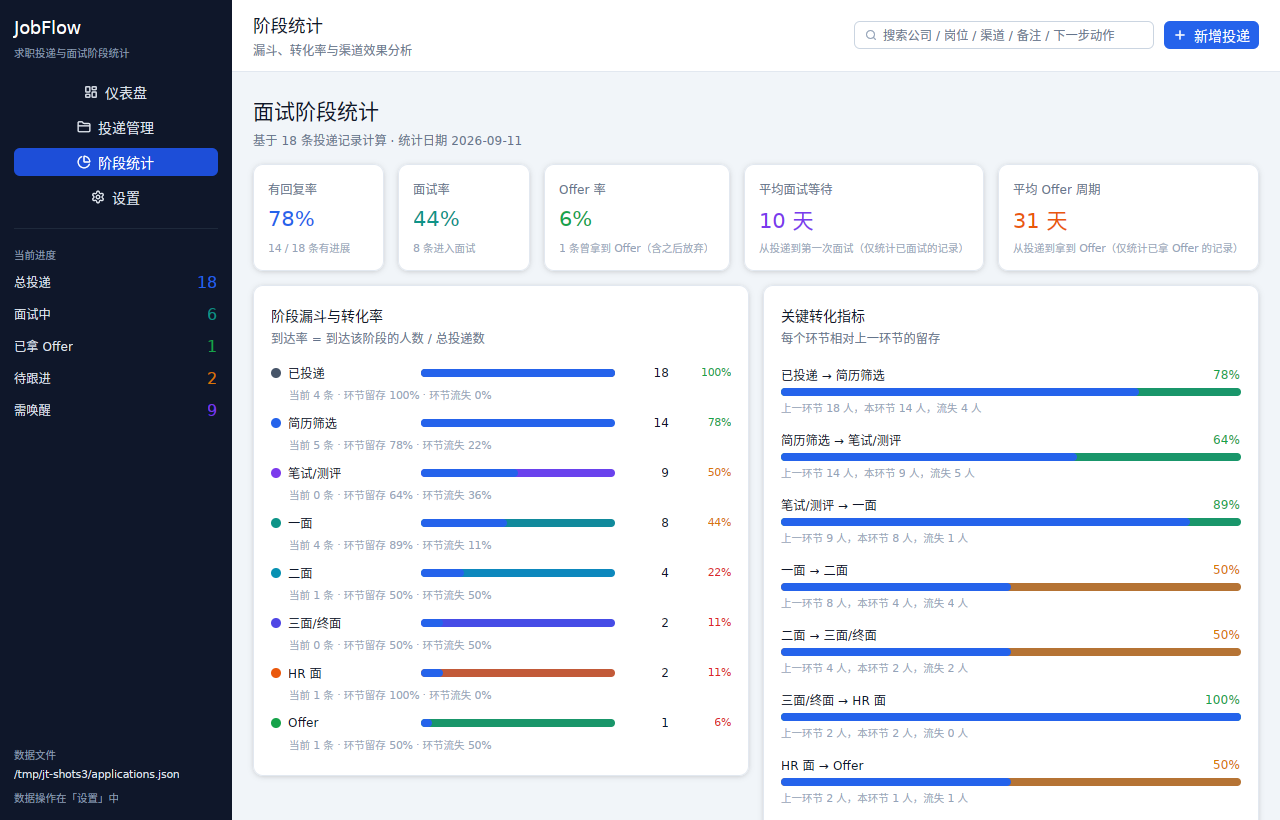
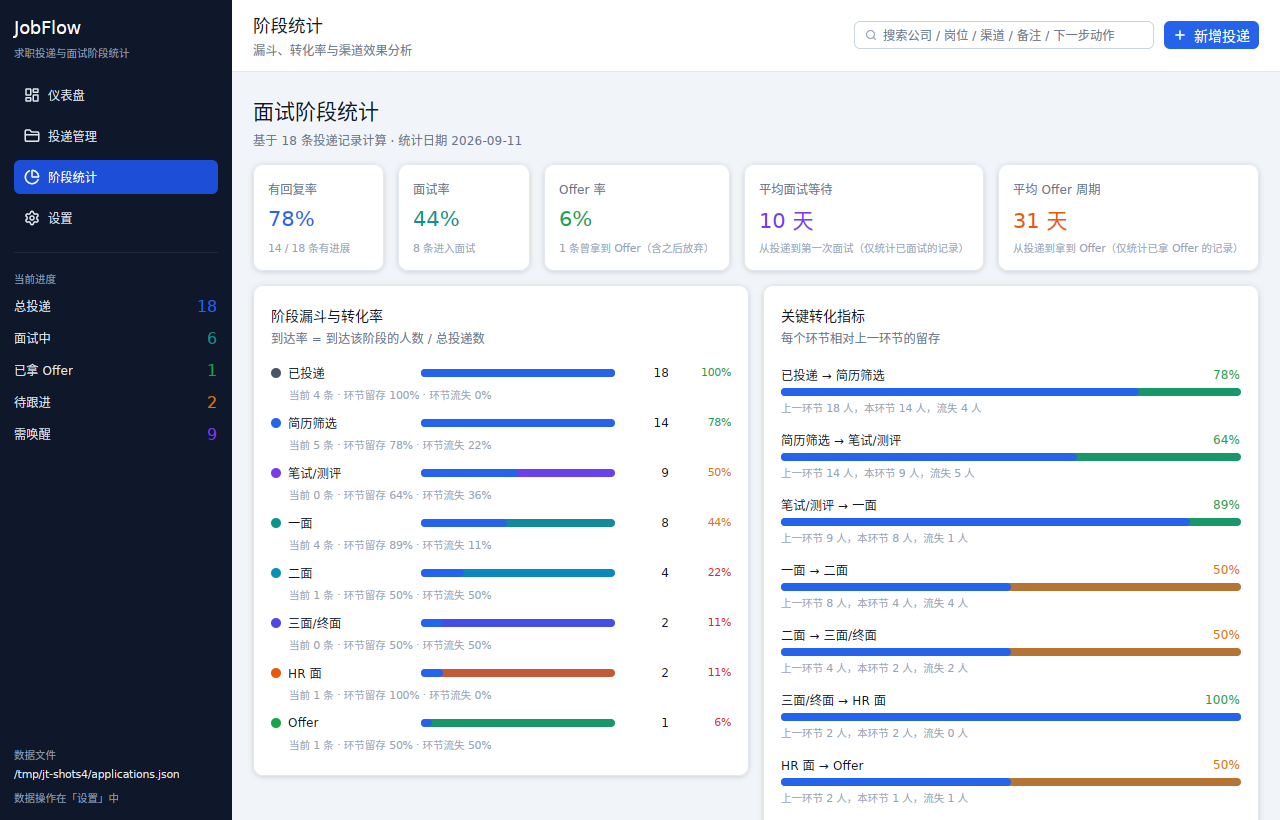
fix(ui): 侧边栏导航项恢复左对齐与实心激活色
gpui-component 0.6 的 Button 内部把内容包在 h_flex().size_full().justify_center()
里，外层的 justify_start 管不到它，于是「图标 + 文字」整体居中、四个导航项各不对齐；
激活项的背景还被叠加了透明度，显示成暗蓝色而非实心主色。

导航项改为自绘 div：图标固定 18px 列宽（四项图标列对齐）、文字左对齐、
激活项实心 #1d4ed8 + 白字，未激活项 hover 用 sidebar_hover。
同步刷新界面截图，版本号 0.3.0 → 0.3.1。

diff --git a/src/ui/components.rs b/src/ui/components.rs
@@ -4,10 +4,12 @@
 //! Progress / ListItem 等，样式与交互（hover、focus ring、禁用态、键盘可达性）
 //! 交给组件库统一处理。
 
-use gpui::{App, Div, FontWeight, Hsla, ParentElement, SharedString, Styled, div, prelude::*, px};
+use gpui::{
+    Div, FontWeight, Hsla, ParentElement, SharedString, Stateful, Styled, div, prelude::*, px,
+};
 use gpui_kit::component::{
     Icon, IconName, Selectable as _, Sizable as _,
-    button::{Button, ButtonCustomVariant, ButtonVariants as _},
+    button::{Button, ButtonVariants as _},
     list::ListItem,
     progress::Progress,
     tag::Tag,
@@ -249,37 +251,68 @@ pub fn danger_button(id: impl Into<SharedString>, label: impl Into<String>) -> B
     Button::new(id.into()).danger().label(label.into())
 }
 
-/// 侧边栏导航按钮。
+/// 侧边栏导航项。
 ///
-/// 侧边栏是深色底，组件库默认的按钮文字色是深色前景色，直接用会看不见，
-/// 因此这里用 `custom` 变体显式指定深色底上的配色。
-pub fn nav_button(
-    cx: &App,
+/// 这里刻意不用组件库的 `Button`：它内部会把内容包在
+/// `h_flex().size_full().justify_center()` 里，外层的 `justify_start` 管不到，
+/// 于是「图标 + 文字」会整体居中、四项还各不对齐。自绘一个 div 更省事：
+/// 图标固定列宽，文字左对齐，激活项用实心主色。
+pub fn nav_item(
     id: impl Into<SharedString>,
     icon: IconName,
     label: impl Into<String>,
     active: bool,
-) -> Button {
-    let variant = if active {
-        ButtonCustomVariant::new(cx)
-            .color(theme::sidebar_active())
-            .foreground(gpui::white())
-            .hover(theme::sidebar_active())
-            .active(theme::sidebar_active())
+) -> Stateful<Div> {
+    let text_color = if active {
+        gpui::white()
     } else {
-        ButtonCustomVariant::new(cx)
-            .color(theme::sidebar_bg())
-            .foreground(theme::text_on_dark())
-            .hover(theme::sidebar_hover())
-            .active(theme::sidebar_hover())
+        theme::text_on_dark()
+    };
+    let idle_bg = if active {
+        theme::sidebar_active()
+    } else {
+        theme::sidebar_bg()
     };
 
-    Button::new(id.into())
+    div()
+        .id(id.into())
+        .flex()
+        .flex_row()
+        .items_center()
+        .gap_2()
         .w_full()
-        .justify_start()
-        .icon(Icon::new(icon))
-        .label(label.into())
-        .custom(variant)
+        .px_2p5()
+        .py_2()
+        .rounded(px(6.))
+        .bg(idle_bg)
+        .text_color(text_color)
+        .cursor_pointer()
+        .hover(move |style| {
+            style.bg(if active {
+                theme::sidebar_active()
+            } else {
+                theme::sidebar_hover()
+            })
+        })
+        .child(
+            div()
+                .flex_shrink_0()
+                .w(px(18.))
+                .flex()
+                .items_center()
+                .justify_center()
+                .child(Icon::new(icon).size(px(16.)).text_color(text_color)),
+        )
+        .child(
+            div()
+                .text_sm()
+                .font_weight(if active {
+                    FontWeight::SEMIBOLD
+                } else {
+                    FontWeight::NORMAL
+                })
+                .child(label.into()),
+        )
 }
 
 /// 阶段筛选按钮。

diff --git a/src/ui/app.rs b/src/ui/app.rs
@@ -5,7 +5,7 @@ use std::{path::PathBuf, rc::Rc};
 use chrono::NaiveDate;
 use gpui::{
     AnyElement, App, Context, Div, Entity, FocusHandle, Focusable, FontWeight, IntoElement,
-    ParentElement, Render, SharedString, Styled, Window, actions, div, prelude::*, px,
+    ParentElement, Render, SharedString, Stateful, Styled, Window, actions, div, prelude::*, px,
 };
 use gpui_kit::component::{
     Icon, IconName, Sizable as _,
@@ -942,9 +942,8 @@ impl RootView {
         cx.notify();
     }
 
-    fn nav_item(&self, tab: Tab, cx: &Context<Self>) -> Button {
-        nav_button(
-            cx,
+    fn nav_item(&self, tab: Tab, cx: &Context<Self>) -> Stateful<Div> {
+        nav_item(
             format!("nav-{:?}", tab),
             tab.icon(),
             tab.title(),

diff --git a/CHANGELOG.md b/CHANGELOG.md
@@ -2,6 +2,16 @@
 
 本项目遵循[语义化版本](https://semver.org/lang/zh-CN/)，1.0 之前次版本号可能包含不兼容变更。
 
+## [0.3.1] - 2026-09-11
+
+### 修复
+
+- **侧边栏导航项恢复左对齐**：gpui-component 0.6 的 `Button` 内部把内容包在
+  `h_flex().size_full().justify_center()` 里，外层的 `justify_start` 无效，
+  导致「图标 + 文字」整体居中且四项各不对齐；激活项的背景也被叠加了透明度，
+  显示成暗蓝色而不是实心主色。现在导航项改为自绘 div：图标固定 18px 列宽、
+  文字左对齐、激活项实心 `#1d4ed8`。
+
 ## [0.3.0] - 2026-09-10
 
 ### 变更（依赖栈升级）
